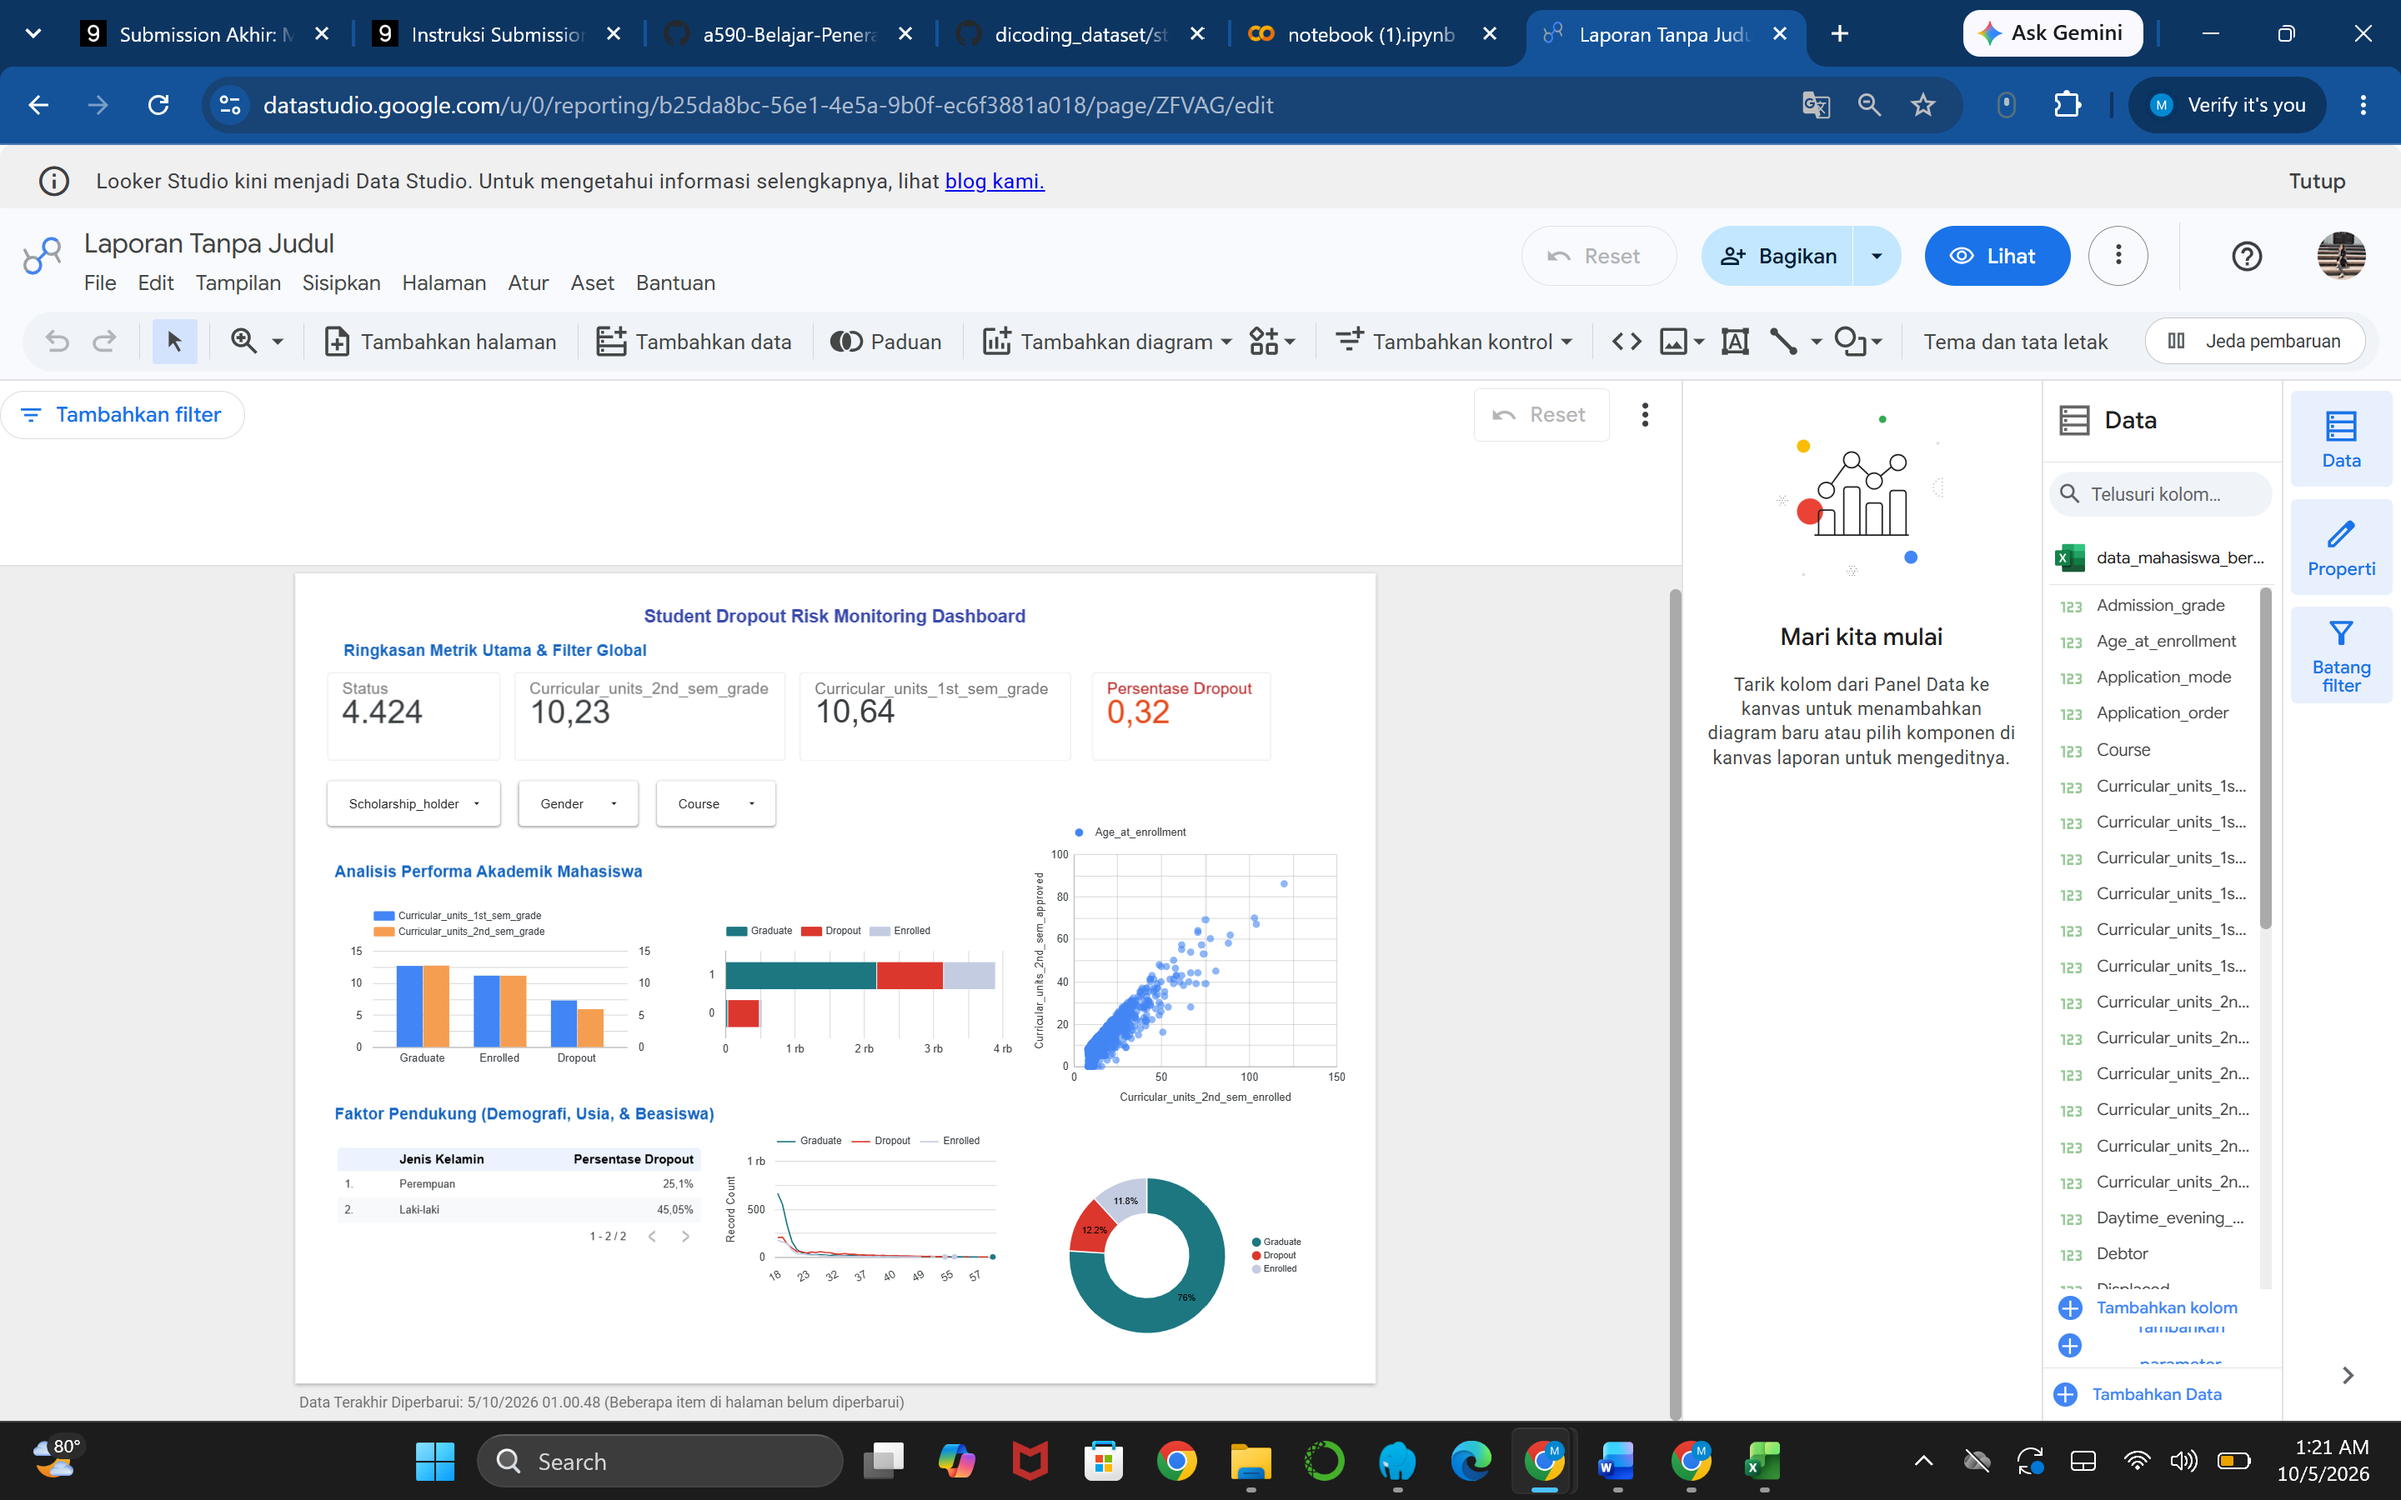
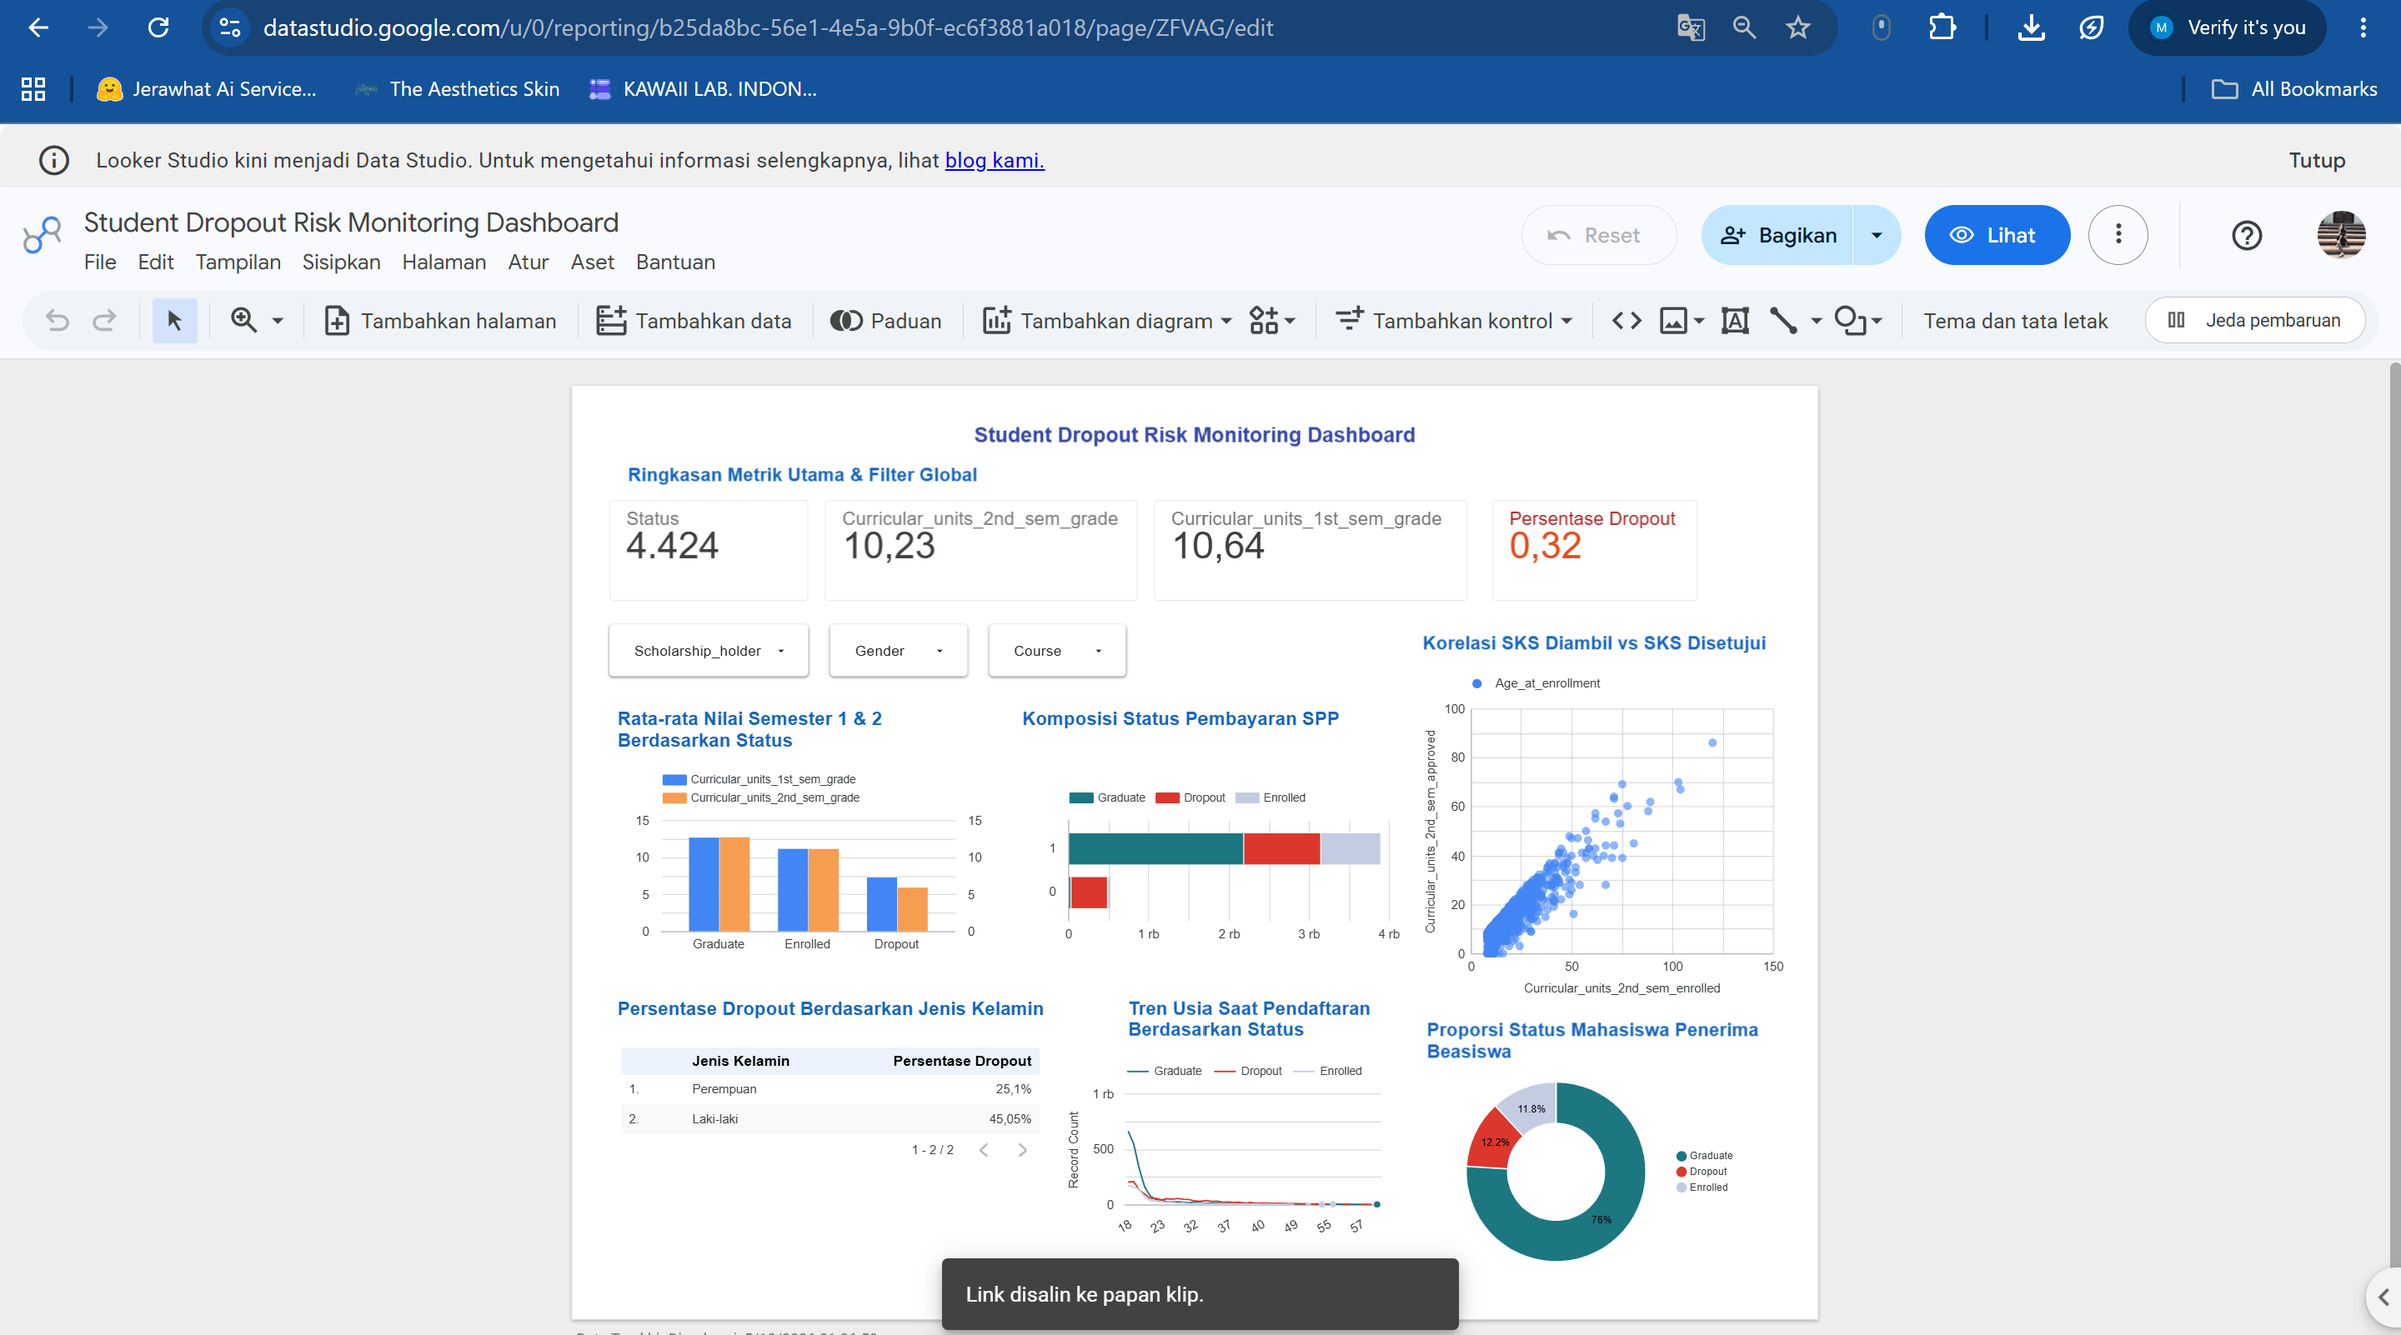
benerin gambar

diff --git a/README.md b/README.md
@@ -32,5 +32,6 @@ submission/
 ├── app.py
 ├── README.md
 ├── requirements.txt
-└── monicadyp-dashboard.png
+├── monicadyp-dashboard.png
+└── Student_Dropout_Risk_Monitoring_Dashboard.pdf
 ```
